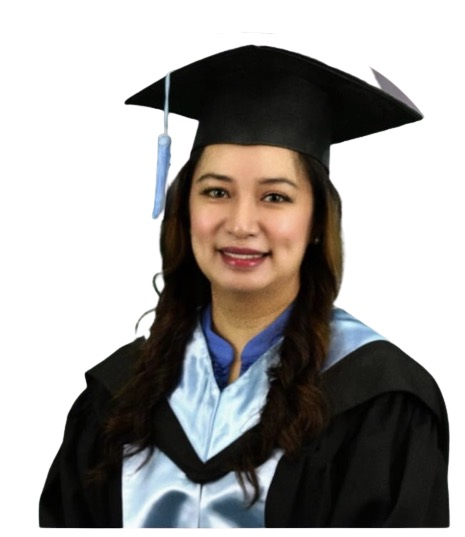
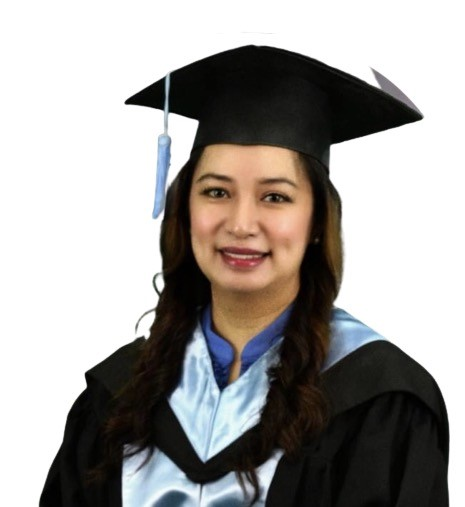
Add files via upload

Changed region(s): [[0.0602, 0.1183, 0.9935, 1.0], [0.4215, 0.0592, 0.6925, 0.1183], [0.9634, 0.858, 0.9935, 0.8876]]

diff --git a/index.html b/index.html
@@ -420,7 +420,7 @@
             <div class="container mt-1 col-lg-3 col-sm-6">
                 <div class="teachercard bg-transparent card w-100 border-0" style="display: inline-block;">
                     <div class="card-body p-2 teacherbodydesign">
-                    <img class="adviserimg card-img-top mb-2" src="./image/daran.png" alt="Card image" style="width:100%">
+                    <img class="adviserimg card-img-top mb-2" src="./image/daran.jpg" alt="Card image" style="width:100%">
                         <h5 class="card-title">Dr. Aileen M. Daran</h5>
                         <p class="card-text">MAT English; Ed.D in Industrial Management</p>
                         <button type="button" class="btn btn-sm btn-primary w-100 mt-3" data-bs-toggle="modal" data-bs-target="#myModal6">
@@ -691,7 +691,7 @@
              <div class="container mt-1 col-lg-3 col-sm-6">
                 <div class="teachercard bg-transparent card w-100 border-0" style="display: inline-block;">
                     <div class="card-body p-2 teacherbodydesign">
-                    <img class="adviserimg card-img-top mb-2" src="./image/docElaine.png" alt="Card image" style="width:100%">
+                    <img class="adviserimg card-img-top mb-2" src="./image/docElaine.jpg" alt="Card image" style="width:100%">
                         <h5 class="card-title">Dr. Elaine Rose G. Nachon</h5>
                         <p class="card-text">Ph.D. in Education (Educational Management) from MAT English.</p>
                          <button type="button" class="btn btn-sm btn-primary w-100 mt-3" data-bs-toggle="modal" data-bs-target="#myModal14">
@@ -789,7 +789,7 @@
              <div class="container mt-1 col-lg-3 col-sm-6">
                 <div class="teachercard bg-transparent card w-100 border-0" style="display: inline-block;">
                     <div class="card-body p-2 teacherbodydesign">
-                    <img class="adviserimg card-img-top mb-2" src="./image/sirjoms.png" alt="Card image" style="width:100%">
+                    <img class="adviserimg card-img-top mb-2" src="./image/sirjoms.jpg" alt="Card image" style="width:100%">
                         <h5 class="card-title">Mr. Mervin Jommel T. De Jesus</h5>
                         <p class="card-text">BS COM SCI, Master of Science in Information Technology</p>
                          <button type="button" class="btn btn-sm btn-primary w-100 mt-3" data-bs-toggle="modal" data-bs-target="#myModal8">
